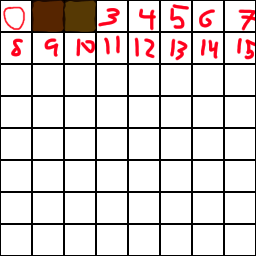
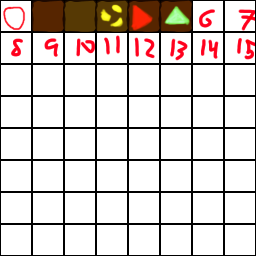
hunger i guess

Changed region(s): [[0.375, 0.0, 0.75, 0.125]]

diff --git a/jam-app/src/Game_State/World_State.cpp b/jam-app/src/Game_State/World_State.cpp
@@ -1,5 +1,6 @@
 #include "Game_State.h"
 
+#include "utils.h"
 #include "Render_Utils.h"
 #include "logging.h"
 
@@ -14,12 +15,11 @@ extern int32 g_window_height;
 
 enum Move_Reason {
     MOVE_NOT_POSSIBLE = 0,
-    MOVE_POSSIBLE = 1,
-    MOVE_AND_BREAK = 2
+    MOVE_POSSIBLE,
+    MOVE_AND_BREAK,
+    DEPOSIT_FOOD,
+    WITHDRAW_FOOD
 };
-
-uint8 Move_Entity(int16 start_x, int16 start_y, int16 move_x, int16 move_y, const World& world);
-uint8 Break_Block(int16 world_x, int16 world_y, World& world);
 
 World_State::World_State(const char* filename) {
     log_trace("World_State::World_State(%s)", filename);
@@ -37,12 +37,40 @@ World_State::World_State(const char* filename) {
     world.grid.Fill(1, 1, 23, ground_level, 0);
     world.grid.Fill(1, ground_level+1, 23, world.grid.map_height - ground_level - 2, 2);
     world.grid.Fill(15, ground_level-4, 8, 5, 1);
+    world.grid[15][ground_level] = 4;
+    world.grid[14][ground_level+1] = 5;
+
+    int num_to_place = 20;
+    for (int n = 0; n < num_to_place; n++) {
+        int16 x = rand_int(1, 23);
+        int16 y = rand_int(ground_level+5, 58);
+
+        world.grid[x][y] = 3;
+    }
+    num_to_place = 200;
+    for (int n = 0; n < num_to_place; n++) {
+        int16 x = rand_int(1, 23);
+        int16 y = rand_int(ground_level+5, 58);
+
+        world.grid[x][y] = 1;
+    }
 
     // Load sprite-sheet
     player.sprite.Load_Sprite_Sheet_From_Meta(g_game.GetRenderer(), "data/thingy.sprite");
     player.world_x = 6;
     player.world_y = ground_level;
     player.angle = 0.0;
+
+    hunger = 0.0;
+    hunger_rate = 0.001;
+    move_cost = 0.002;
+    break_cost = 0.01;
+    colony_hunger = 0.0;
+    carrying_food = 0;
+    colony_food = 100;
+    colony_size = 100;
+    field_eat_ratio = 0.25;
+    colony_eat_ratio = 1.0;
 }
 
 World_State::~World_State() {
@@ -54,7 +82,24 @@ void World_State::Update_And_Render(SDL_Renderer* renderer, real32 dt) {
     SDL_RenderClear(renderer);
 
     // Draw sprite
+    int32 depth = player.world_y - ground_level;
+    bool in_colony = (depth <= 0);
     player.sprite.Update(dt);
+    hunger += (hunger_rate * dt);
+    if (hunger > 1.0) {
+        if (in_colony) {
+            colony_food--;
+            hunger -= colony_eat_ratio;
+        } else {
+            carrying_food--;
+            hunger -= field_eat_ratio;
+        }
+    }
+    colony_hunger += (hunger_rate * colony_size * dt);
+    if (colony_hunger > 1.0) {
+        colony_food--;
+        colony_hunger-=1.0;
+    }
     real32 stick_x = 0.0, stick_y = 0.0;
     
     //stick_x = g_game.GetAxes()->axes[Axis_Left_Horiz];
@@ -69,18 +114,19 @@ void World_State::Update_And_Render(SDL_Renderer* renderer, real32 dt) {
 
     stick_x =  0.0 * g_game.GetAxes()->axes[Axis_Right_Horiz];
     stick_y = -1.0 * g_game.GetAxes()->axes[Axis_Right_Vert];
-    world.cam_world_pos = world.cam_world_pos + laml::Vec2(stick_x, stick_y) * (500.0 * dt);
+    world.cam_world_pos = world.cam_world_pos + laml::Vec2(stick_x, stick_y) * (1500.0 * dt);
     if (world.cam_world_pos.y < (g_window_height - 16)) {
         world.cam_world_pos.y = g_window_height - 16;
     }
-
-    int32 depth = player.world_y - ground_level;
+    if (world.cam_world_pos.y > (60*32 - 16)) {
+        world.cam_world_pos.y = (60*32 - 16);
+    }
 
 
     //////////// Render
     // tilemap
-    Draw_Tilemap(renderer, &world.grid, &world.tilesheet, world.Get_Origin_Screen_Pos(), world.grid_size_x, world.grid_size_y);
-    //Draw_Tilemap_Debug(renderer, &world.grid, world.Get_Origin_Screen_Pos(), world.grid_x, world.grid_y);
+    Draw_Tilemap(renderer, &world.grid, &world.tilesheet, world.Get_Origin_Screen_Pos(), world.grid_size_x, world.grid_size_y, ground_level);
+    //Draw_Tilemap_Debug(renderer, &world.grid, world.Get_Origin_Screen_Pos(), world.grid_size_x, world.grid_size_y);
 
     // origin
     Draw_Sprite(renderer, world.sprite_origin, world.Get_Origin_Screen_Pos(), 0.0);
@@ -93,12 +139,33 @@ void World_State::Update_And_Render(SDL_Renderer* renderer, real32 dt) {
     laml::Vec2 screen_pos = world.Get_Screen_Pos(player.world_x, player.world_y);
     Draw_Sprite(renderer, player.sprite, screen_pos, player.angle);
 
-    // world info
-    SDL_Rect rect = { 4, 100, 0, 0 };
+    SDL_Rect rect = { 4, 50, 0, 0 };
     SDL_Color color = { 255, 255, 255, 255 };
     SDL_Color back_color = { 0, 0, 0, 255 };
     char buffer[256];
 
+    snprintf(buffer, 256, "Colony: %d", colony_size);
+    Render_Text(renderer, g_small_font, color, rect, buffer);
+    rect.y += g_font_size_small;
+    snprintf(buffer, 256, "  Hunger: %.6f", colony_hunger);
+    Render_Text(renderer, g_small_font, color, rect, buffer);
+    rect.y += g_font_size_small;
+    snprintf(buffer, 256, "  Food: %d", colony_food);
+    Render_Text(renderer, g_small_font, color, rect, buffer);
+    rect.y += g_font_size_small;
+
+    snprintf(buffer, 256, "[You]");
+    Render_Text(renderer, g_small_font, color, rect, buffer);
+    rect.y += g_font_size_small;
+    snprintf(buffer, 256, "  Hunger: %.6f", hunger);
+    Render_Text(renderer, g_small_font, color, rect, buffer);
+    rect.y += g_font_size_small;
+    snprintf(buffer, 256, "  Food: %d", carrying_food);
+    Render_Text(renderer, g_small_font, color, rect, buffer);
+    rect.y += g_font_size_small;
+
+    /*
+    // world info
     snprintf(buffer, 256, "Origin: <%.0f, %.0f>", world.origin.x, world.origin.y);
     Render_Text(renderer, g_small_font, color, rect, buffer);
     rect.y += g_font_size_small;
@@ -119,6 +186,7 @@ void World_State::Update_And_Render(SDL_Renderer* renderer, real32 dt) {
     rect.y += g_font_size_small;
     snprintf(buffer, 256, "Depth: %d", depth);
     Render_Text(renderer, g_small_font, color, rect, buffer);
+    */
 }
 
 bool World_State::On_Action_Event(Action_Event action) {
@@ -143,24 +211,41 @@ bool World_State::On_Action_Event(Action_Event action) {
     } else if (action.action == Action_Left && action.pressed) {
         move_x = -1;
     } else if (action.action == Action_Up && action.pressed) {
-        move_y = -1;
+        if (player.world_y > ground_level)
+            move_y = -1;
     } else if (action.action == Action_Down && action.pressed) {
         move_y = 1;
     }
 
     if (move_x || move_y) {
-        uint8 reason = Move_Entity(player.world_x, player.world_y, move_x, move_y, world);
+        uint8 reason = Move_Entity(player.world_x, player.world_y, move_x, move_y);
         switch (reason) {
             case MOVE_POSSIBLE: {
                 this->player.world_x += move_x;
                 this->player.world_y += move_y;
+                hunger += move_cost;
             } break;
 
             case MOVE_AND_BREAK: {
                 this->player.world_x += move_x;
                 this->player.world_y += move_y;
+                hunger += break_cost;
 
-                Break_Block(player.world_x, player.world_y, world);
+                Break_Block(player.world_x, player.world_y);
+            } break;
+
+            case DEPOSIT_FOOD: {
+                if (this->carrying_food > 0) {
+                    this->carrying_food--;
+                    this->colony_food++;
+                }
+            } break;
+
+            case WITHDRAW_FOOD: {
+                if (this->colony_food > 0) {
+                    this->colony_food--;
+                    this->carrying_food++;
+                }
             } break;
         }
 
@@ -170,7 +255,7 @@ bool World_State::On_Action_Event(Action_Event action) {
     return false;
 }
 
-uint8 Move_Entity(int16 start_x, int16 start_y, int16 move_x, int16 move_y, const World& world) {
+uint8 World_State::Move_Entity(int16 start_x, int16 start_y, int16 move_x, int16 move_y) {
     int16 end_x = start_x + move_x;
     int16 end_y = start_y + move_y;
 
@@ -185,12 +270,29 @@ uint8 Move_Entity(int16 start_x, int16 start_y, int16 move_x, int16 move_y, cons
         return MOVE_AND_BREAK;
     }
 
+    if (end_cell == 3) {
+        return MOVE_AND_BREAK;
+    }
+
+    if (end_cell == 4) {
+        return DEPOSIT_FOOD;
+    }
+
+    if (end_cell == 5) {
+        return WITHDRAW_FOOD;
+    }
+
     return MOVE_NOT_POSSIBLE;
 }
 
-uint8 Break_Block(int16 world_x, int16 world_y, World& world) {
+uint8 World_State::Break_Block(int16 world_x, int16 world_y) {
     uint8 cell = world.grid[world_x][world_y];
     log_debug("destroy cell: %d", cell);
+
+    if (cell == 3) {
+        log_info("Got some goo");
+        carrying_food++;
+    }
 
     world.grid[world_x][world_y] = 0;
 

diff --git a/jam-app/src/Render_Utils.cpp b/jam-app/src/Render_Utils.cpp
@@ -10,6 +10,8 @@ extern TTF_Font* g_small_font;
 extern int32 g_font_size_small;
 const int32 offset = 2;
 
+extern uint32 g_window_pixel_format;
+
 void Render_Text(SDL_Renderer* renderer, TTF_Font* font, SDL_Color color, SDL_Rect dest, const char* fmt, ...) {
     va_list args;
     va_start(args, fmt);
@@ -75,15 +77,22 @@ void Draw_Sprite(SDL_Renderer* renderer, const Sprite& sprite, laml::Vec2 screen
     SDL_RenderCopyEx(renderer, sprite.texture, &src_rect, &dst_rect, angle, &rot_center, SDL_FLIP_NONE);
 }
 
-void Draw_Tilemap(SDL_Renderer* renderer, const Tilemap* map, const Indexed_Tilesheet* tilesheet, laml::Vec2 screen_pos, int16 tile_width, int16 tile_height) {
+void Draw_Tilemap(SDL_Renderer* renderer, const Tilemap* map, const Indexed_Tilesheet* tilesheet, 
+                  laml::Vec2 screen_pos, int16 tile_width, int16 tile_height, int16 ground_level) {
     int num_x = map->map_width;
     int num_y = map->map_height;
 
     char buffer[16] = {0};
     SDL_Rect dst_rect = {0,0,tilesheet->tile_x, tilesheet->tile_y};
-    SDL_Color color = { 255, 255, 255, 255 };
-    SDL_Color back_color = { 0, 0, 0, 255 };
 
+    uint8 r_start = 86, g_start = 37, b_start = 0, a_start = 0;
+    uint8 r_end   = 86, g_end   = 37, b_end   = 0, a_end   = 200;
+    int16 start_depth = 10;
+    int16 end_depth = 45;
+
+    SDL_PixelFormat* pf = SDL_AllocFormat(g_window_pixel_format);
+
+    SDL_SetRenderDrawBlendMode(renderer, SDL_BLENDMODE_BLEND);
     for (int x = 0; x < num_x; x++) {
         const uint8* col_data = map->operator[](x);
         dst_rect.x = (screen_pos.x + tile_width*x) - tile_width/2;
@@ -97,6 +106,19 @@ void Draw_Tilemap(SDL_Renderer* renderer, const Tilemap* map, const Indexed_Tile
 
                 SDL_Rect src_rect = {frame.x, frame.y, frame.w, frame.h};
                 SDL_RenderCopy(renderer, tilesheet->texture, &src_rect, &dst_rect);
+
+                //
+                int16 depth = y - ground_level;
+
+                depth = (depth < start_depth) ? start_depth : ((depth>end_depth) ? end_depth : depth);
+
+                real32 f = (real32)(depth - start_depth) / (end_depth - start_depth);
+                uint8 r = (r_start*(1-f) + r_end*f);
+                uint8 g = (g_start*(1-f) + g_end*f);
+                uint8 b = (b_start*(1-f) + b_end*f);
+                uint8 a = (a_start*(1-f) + a_end*f);
+                SDL_SetRenderDrawColor(renderer, r, g, b, a);
+                SDL_RenderFillRect(renderer, &dst_rect);
             }
         }
     }
@@ -119,8 +141,10 @@ void Draw_Tilemap_Debug(SDL_Renderer* renderer, const Tilemap* map, laml::Vec2 s
             const uint8 cell = col_data[y];
             rect.y = (screen_pos.y + tile_height*y) - tile_height/2;
 
-            snprintf(buffer, 16, "%d", cell);
-            Render_Text(renderer, g_small_font, color, rect, buffer);
+            if (cell != 0) {
+                snprintf(buffer, 16, "%d", cell);
+                Render_Text(renderer, g_small_font, color, rect, buffer);
+            }
         }
     }
 }

diff --git a/jam-app/src/Render_Utils.h b/jam-app/src/Render_Utils.h
@@ -12,5 +12,5 @@ void Render_Text(SDL_Renderer* renderer, TTF_Font* font, SDL_Color color, SDL_Re
 void Draw_Circle(SDL_Renderer* renderer, int32 c_x, int32 c_y ,int32 radius);
 void Draw_Sprite(SDL_Renderer* renderer, const Sprite& sprite, laml::Vec2 screen_pos, real32 angle);
 
-void Draw_Tilemap(SDL_Renderer* renderer, const Tilemap* map, const Indexed_Tilesheet* tilesheet, laml::Vec2 screen_pos, int16 tile_width, int16 tile_height);
+void Draw_Tilemap(SDL_Renderer* renderer, const Tilemap* map, const Indexed_Tilesheet* tilesheet, laml::Vec2 screen_pos, int16 tile_width, int16 tile_height, int16 ground_level);
 void Draw_Tilemap_Debug(SDL_Renderer* renderer, const Tilemap* map, laml::Vec2 screen_pos, int16 tile_width, int16 tile_height);

diff --git a/jam-app/src/Game_State.h b/jam-app/src/Game_State.h
@@ -62,12 +62,26 @@ struct World_State : public Game_State {
     virtual bool On_Action_Event(Action_Event action) override;
 
 private:
+    uint8 Move_Entity(int16 start_x, int16 start_y, int16 move_x, int16 move_y);
+    uint8 Break_Block(int16 world_x, int16 world_y);
+
+private:
     // World
     World world;
     int16 ground_level;
 
     // Player Sprite
     Entity player;
+    real32 hunger;
+    real32 hunger_rate;
+    real32 move_cost;
+    real32 break_cost;
+    int16 carrying_food;
+    int16 colony_food;
+    int16 colony_size;
+    real32 colony_hunger;
+    real32 field_eat_ratio;
+    real32 colony_eat_ratio;
 
     // debug
     std::string level_name;

diff --git a/jam-app/src/Game_App.cpp b/jam-app/src/Game_App.cpp
@@ -21,6 +21,7 @@ int32 g_font_size_large = 48;
 
 int32 g_window_width = 800;
 int32 g_window_height = 600;
+uint32 g_window_pixel_format = 0;
 
 // local vars
 static const real32 deadzone = 0.5;
@@ -65,6 +66,7 @@ bool Game_App::Init() {
 
     // Create our window
 	window = SDL_CreateWindow( window_name.c_str(), SDL_WINDOWPOS_UNDEFINED, SDL_WINDOWPOS_UNDEFINED, g_window_width, g_window_height, SDL_WINDOW_SHOWN );
+    g_window_pixel_format = SDL_GetWindowPixelFormat(window);
 
 	// Make sure creating the window succeeded
 	if ( !window ) {

diff --git a/utils/src/utils.cpp b/utils/src/utils.cpp
@@ -1,5 +1,12 @@
 #include "utils.h"
 
-int func() {
-    return 7;
+#include <stdlib.h>
+
+static unsigned int seed = 123456;
+
+void rand_seed() {
+    srand(seed);
+}
+int16 rand_int(int16 min_val, int16 max_val) {
+    return (int16)(rand() % (max_val + 1 - min_val) + min_val);
 }

diff --git a/utils/src/utils.h b/utils/src/utils.h
@@ -1,1 +1,4 @@
-int func();
+#include <laml/laml.hpp>
+
+void rand_seed();
+int16 rand_int(int16 min_val, int16 max_val);
